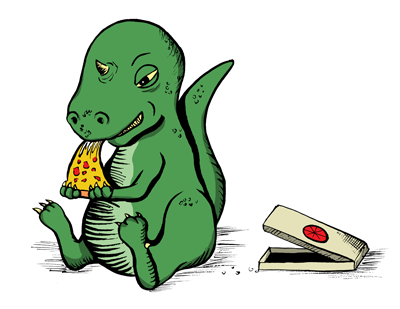
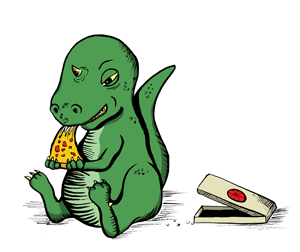
changed dino_pizza image alignment and size

Changed region(s): [[0.06, 0.0556, 0.96, 0.9722]]

diff --git a/stylesheets/public.css b/stylesheets/public.css
@@ -62,6 +62,11 @@ div {
 	font-size: 1em;	
 }
 
+#aboutPic {
+
+	margin-left: 50px;
+}
+
 .clear {
  
 	clear: both;

diff --git a/about.php b/about.php
@@ -1,7 +1,7 @@
 <?php include('includes/header.php'); ?>
 
 		<div class="content">	
-			<img src="images/dino_pizza.png" alt="Mm, pizza…" width="400px" height="309px" />
+			<img id="aboutPic" src="images/dino_pizza.png" alt="Mm, pizza…" width="300px" height="252px" />
 			<p class="aboutText">Until further notice, Donna Almendrala is pursuing her love of comics as a Master of Fine Arts candidate (2012) at the Center for Cartoon Studies. In addition to cartooning, she studies illustration, design, and web and print production. She comes from a science background working as a research associate with a Bachelor of Science in Chemical Biology from the University of California, Berkeley (2008). She loves drawing, reading, and writing cartoons, and she dreams about it when she sleeps.</p>
 			<p class="aboutText">She likes computers and spends a lot of her free time learning programming languages so she can make comics about them. She is also an avid player of boardgames.</p>
 			<p class="aboutText">To contact her, please email <a href="mailto:captain@donnaalmendrala.name" target="_blank">captain@donnaalmendrala.name</a></p>
